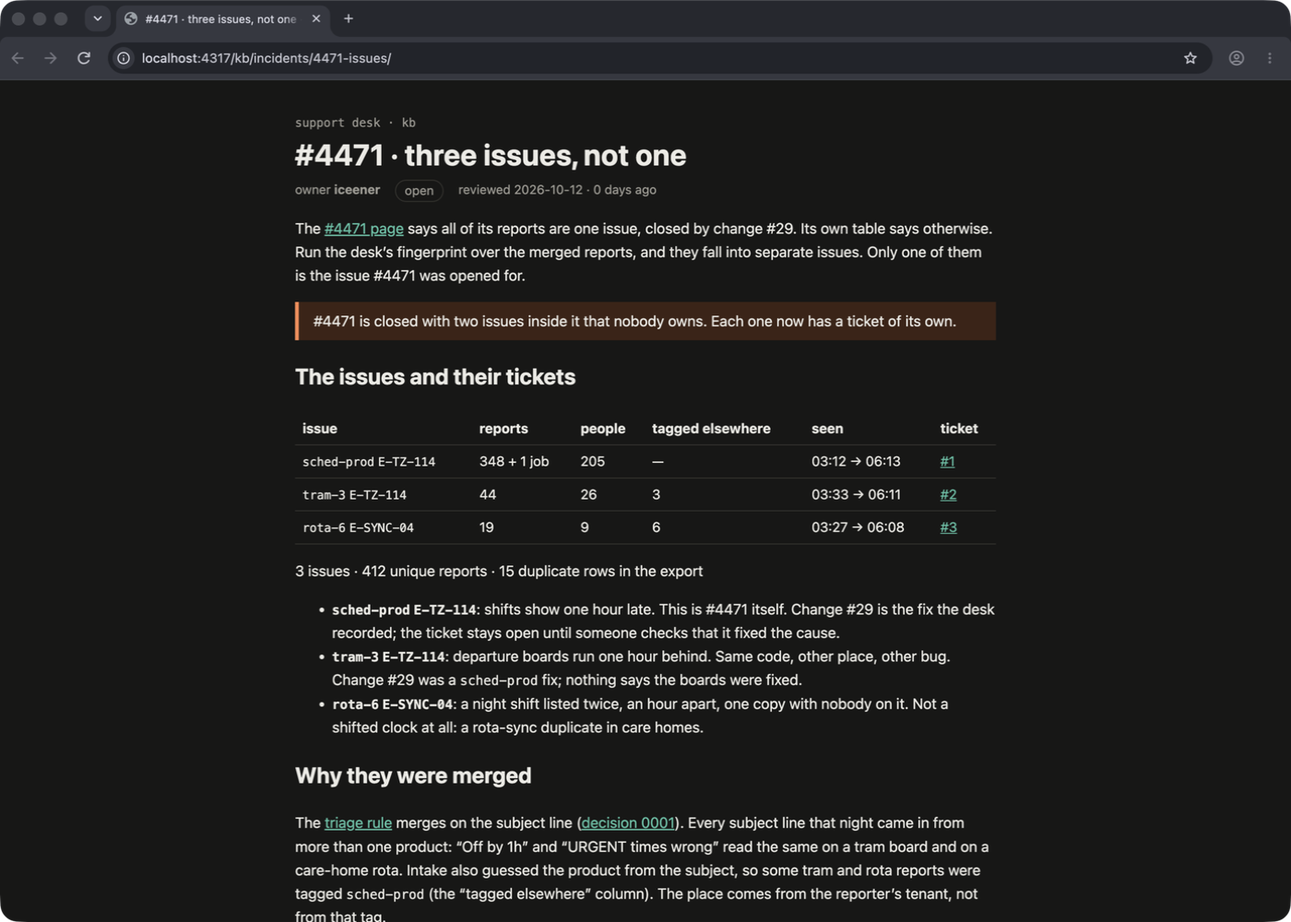
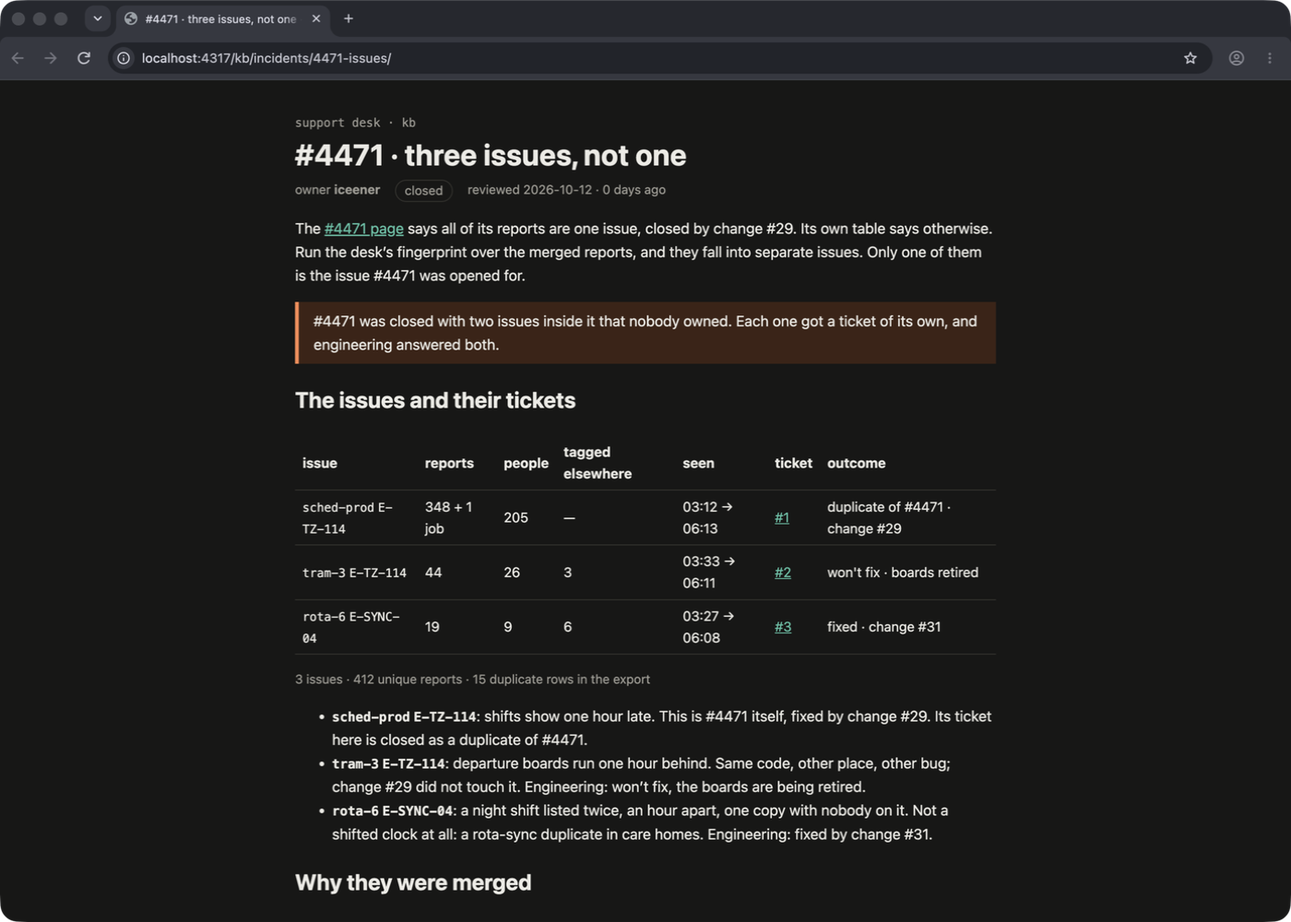
kb: #4471 issues page — outcomes after the engineering update (change #31, boards retired)

Changed region(s): [[0.215, 0.341, 0.7679, 1.0], [0.5836, 0.496, 0.7371, 0.589], [0.3071, 0.186, 0.5221, 0.217]]

diff --git a/build/kb/incidents/4471-issues/index.html b/build/kb/incidents/4471-issues/index.html
@@ -9,11 +9,11 @@
 		<link href="../../../_app/immutable/chunks/CjPXl71r.js" rel="modulepreload">
 		<link href="../../../_app/immutable/chunks/DrhdKudp.js" rel="modulepreload">
 		<link href="../../../_app/immutable/chunks/Q-h46zS3.js" rel="modulepreload">
-		<link href="../../../_app/immutable/entry/app.eoS55Amf.js" rel="modulepreload">
+		<link href="../../../_app/immutable/entry/app.CR07eQc3.js" rel="modulepreload">
 		<link href="../../../_app/immutable/nodes/0.B1DvwWkt.js" rel="modulepreload">
 		<link href="../../../_app/immutable/chunks/DK3Fl9T5.js" rel="modulepreload">
-		<link href="../../../_app/immutable/nodes/5.D0bmob_7.js" rel="modulepreload">
-		<link href="../../../_app/immutable/chunks/BV7Dv-AE.js" rel="modulepreload">
+		<link href="../../../_app/immutable/nodes/5.D6AqRqVD.js" rel="modulepreload">
+		<link href="../../../_app/immutable/chunks/CYy8uHnd.js" rel="modulepreload">
 		<link href="../../../_app/immutable/chunks/C8mc8nAB.js" rel="modulepreload">
 		<link href="../../../_app/immutable/chunks/CZxFnst4.js" rel="modulepreload">
 		<link href="../../../_app/immutable/chunks/C_ZGOYHz.js" rel="modulepreload">
@@ -24,12 +24,14 @@
 		<link href="../../../_app/immutable/assets/_page.D4fSH3G6.css" rel="stylesheet">
   </head>
   <body data-sveltekit-preload-data="hover">
-    <div style="display: contents"><!--[--><!--[--><!--[0--><!--[--><!--[--><!--[-1--><!--[--><div class="kb svelte-e2jw2j"><header><a class="crumb svelte-e2jw2j" href="/kb">support desk · kb</a> <h1 class="svelte-e2jw2j">#4471 · three issues, not one</h1> <p class="meta svelte-e2jw2j"><span>owner <b>iceener</b></span> <span class="status open svelte-e2jw2j">open</span> <span class="svelte-e2jw2j">reviewed 2026-10-12 · 0 days ago</span></p></header> <!--[-1--><!--]--> <main><p>The <a href="/kb/incidents/4471">#4471 page</a> says all of its reports are one issue, closed by change #29.
+    <div style="display: contents"><!--[--><!--[--><!--[0--><!--[--><!--[--><!--[-1--><!--[--><div class="kb svelte-e2jw2j"><header><a class="crumb svelte-e2jw2j" href="/kb">support desk · kb</a> <h1 class="svelte-e2jw2j">#4471 · three issues, not one</h1> <p class="meta svelte-e2jw2j"><span>owner <b>iceener</b></span> <span class="status closed svelte-e2jw2j">closed</span> <span class="svelte-e2jw2j">reviewed 2026-10-12 · 0 days ago</span></p></header> <!--[-1--><!--]--> <main><p>The <a href="/kb/incidents/4471">#4471 page</a> says all of its reports are one issue, closed by change #29.
 Its own table says otherwise. Run the desk’s fingerprint over the merged reports, and they fall
-into separate issues. Only one of them is the issue #4471 was opened for.</p> <aside class="warn svelte-17bri61"><!---->#4471 is closed with two issues inside it that nobody owns. Each one now has a ticket of its own.<!----></aside><!----> <h2>The issues and their tickets</h2> <table><thead><tr><th>issue</th><th>reports</th><th>people</th><th>tagged elsewhere</th><th>seen</th><th>ticket</th></tr></thead><tbody><!--[--><tr><td><code>sched-prod</code> <code>E-TZ-114</code></td><td>348 + 1 job</td><td>205</td><td>—</td><td>03:12 → 06:13</td><td><!--[0--><a href="https://github.com/iceener/kb-4471-a/issues/1">#1</a><!--]--></td></tr><tr><td><code>tram-3</code> <code>E-TZ-114</code></td><td>44</td><td>26</td><td>3</td><td>03:33 → 06:11</td><td><!--[0--><a href="https://github.com/iceener/kb-4471-a/issues/2">#2</a><!--]--></td></tr><tr><td><code>rota-6</code> <code>E-SYNC-04</code></td><td>19</td><td>9</td><td>6</td><td>03:27 → 06:08</td><td><!--[0--><a href="https://github.com/iceener/kb-4471-a/issues/3">#3</a><!--]--></td></tr><!--]--></tbody></table> <p class="sum svelte-17mk73y">3 issues · 412 unique reports · 15 duplicate rows in the export</p><!----> <ul><li><strong><code>sched-prod</code> <code>E-TZ-114</code></strong>: shifts show one hour late. This is #4471 itself. Change #29 is
-the fix the desk recorded; the ticket stays open until someone checks that it fixed the cause.</li> <li><strong><code>tram-3</code> <code>E-TZ-114</code></strong>: departure boards run one hour behind. Same code, other place, other
-bug. Change #29 was a <code>sched-prod</code> fix; nothing says the boards were fixed.</li> <li><strong><code>rota-6</code> <code>E-SYNC-04</code></strong>: a night shift listed twice, an hour apart, one copy with nobody on
-it. Not a shifted clock at all: a rota-sync duplicate in care homes.</li></ul> <h2>Why they were merged</h2> <p>The <a href="/kb/triage/dedupe">triage rule</a> merges on the subject line
+into separate issues. Only one of them is the issue #4471 was opened for.</p> <aside class="warn svelte-17bri61"><!---->#4471 was closed with two issues inside it that nobody owned. Each one got a ticket of its own,
+and engineering answered both.<!----></aside><!----> <h2>The issues and their tickets</h2> <table><thead><tr><th>issue</th><th>reports</th><th>people</th><th>tagged elsewhere</th><th>seen</th><th>ticket</th><th>outcome</th></tr></thead><tbody><!--[--><tr><td><code>sched-prod</code> <code>E-TZ-114</code></td><td>348 + 1 job</td><td>205</td><td>—</td><td>03:12 → 06:13</td><td><!--[0--><a href="https://github.com/iceener/kb-4471-a/issues/1">#1</a><!--]--></td><td>duplicate of #4471 · change #29</td></tr><tr><td><code>tram-3</code> <code>E-TZ-114</code></td><td>44</td><td>26</td><td>3</td><td>03:33 → 06:11</td><td><!--[0--><a href="https://github.com/iceener/kb-4471-a/issues/2">#2</a><!--]--></td><td>won't fix · boards retired</td></tr><tr><td><code>rota-6</code> <code>E-SYNC-04</code></td><td>19</td><td>9</td><td>6</td><td>03:27 → 06:08</td><td><!--[0--><a href="https://github.com/iceener/kb-4471-a/issues/3">#3</a><!--]--></td><td>fixed · change #31</td></tr><!--]--></tbody></table> <p class="sum svelte-17mk73y">3 issues · 412 unique reports · 15 duplicate rows in the export</p><!----> <ul><li><strong><code>sched-prod</code> <code>E-TZ-114</code></strong>: shifts show one hour late. This is #4471 itself, fixed by change
+#29. Its ticket here is closed as a duplicate of #4471.</li> <li><strong><code>tram-3</code> <code>E-TZ-114</code></strong>: departure boards run one hour behind. Same code, other place, other
+bug; change #29 did not touch it. Engineering: won’t fix, the boards are being retired.</li> <li><strong><code>rota-6</code> <code>E-SYNC-04</code></strong>: a night shift listed twice, an hour apart, one copy with nobody on
+it. Not a shifted clock at all: a rota-sync duplicate in care homes. Engineering: fixed by
+change #31.</li></ul> <h2>Why they were merged</h2> <p>The <a href="/kb/triage/dedupe">triage rule</a> merges on the subject line
 (<a href="/kb/decisions/0001-dedupe-by-subject">decision 0001</a>). Every subject line that night came in
 from more than one product: “Off by 1h” and “URGENT times wrong” read the same on a tram board
 and on a care-home rota. Intake also guessed the product from the subject, so some tram and
@@ -42,16 +44,16 @@ person; the table above does not.</p> <h2>As the desk filed it</h2> <p class="su
 			
 			<script>
 				{
-					__sveltekit_1057b2r = {
+					__sveltekit_57dtfc = {
 						base: new URL("../../..", location).pathname.slice(0, -1),
-						version: "1791802674645"
+						version: "1791802835124"
 					};
 
 					const element = document.currentScript.parentElement;
 
 					import("../../../_app/immutable/entry/start.B_C2gqdF.js").then(async (kit) => {
-						kit.init(__sveltekit_1057b2r);
-						const app = await import("../../../_app/immutable/entry/app.eoS55Amf.js");
+						kit.init(__sveltekit_57dtfc);
+						const app = await import("../../../_app/immutable/entry/app.CR07eQc3.js");
 						kit.start(app, element, {
 							node_ids: [0, 5],
 							data: [null,null],

diff --git a/build/_app/immutable/chunks/CYy8uHnd.js b/build/_app/immutable/chunks/CYy8uHnd.js
@@ -1,0 +1,17 @@
+import{t as e}from"./DK3Fl9T5.js";import{E as t,F as n,G as r,H as i,I as a,J as o,L as s,N as c,O as l,R as u,S as d,T as f,W as p,_ as m,c as h,h as g,k as _,q as v,r as y,t as b,w as x}from"./DrhdKudp.js";import{t as S}from"./C8mc8nAB.js";import{n as C,r as w,t as T}from"./CZxFnst4.js";import{i as E,n as D,s as O,t as k}from"./C_ZGOYHz.js";var A=t(`<a> </a>`),j=t(`<span class="none svelte-17mk73y">no ticket yet</span>`),M=t(`<tr><td><code> </code> <code> </code></td><td> </td><td> </td><td> </td><td> </td><td><!></td><td> </td></tr>`),N=t(`<table><thead><tr><th>issue</th><th>reports</th><th>people</th><th>tagged elsewhere</th><th>seen</th><th>ticket</th><th>outcome</th></tr></thead><tbody></tbody></table> <p class="sum svelte-17mk73y"> </p>`,1);function P(e,t){r(t,!0);let l=i(()=>O(w).filter(e=>e.mergedInto===t.ticket)),f=i(()=>D(_(l),C)),v=e=>e.filter(e=>e.reporter.includes(`@`)),y=(e,t)=>t.filter(t=>t.product!==e).length,b=e=>e.slice(11,16),S=e=>`#`+e.split(`/`).pop();var T=N(),k=a(T),P=u(n(k));g(P,21,()=>_(f),e=>e.fingerprint,(e,r)=>{let a=i(()=>v(_(r).reports));var l=M(),f=n(l),p=n(f),g=s(p,!0),C=u(p,2),w=s(C,!0);o(f);var T=u(f),D=s(T),O=u(T),k=s(O,!0),N=u(O),P=s(N,!0),F=u(N),I=s(F),L=u(F),R=n(L),z=e=>{var n=A(),i=s(n,!0);c(e=>{h(n,`href`,t.tickets[_(r).fingerprint].url),d(i,e)},[()=>S(t.tickets[_(r).fingerprint].url)]),x(e,n)},B=e=>{var t=j();x(e,t)};m(R,e=>{t.tickets[_(r).fingerprint]?e(z):e(B,-1)}),o(L);var V=u(L),H=s(V,!0);o(l),c((e,n,i,o)=>{d(g,_(r).place),d(w,_(r).code),d(D,`${_(a).length??``}${_(r).reports.length>_(a).length?` + ${_(r).reports.length-_(a).length} job`:``}`),d(k,e),d(P,n),d(I,`${i??``} → ${o??``}`),d(H,t.tickets[_(r).fingerprint]?.outcome??`—`)},[()=>new Set(_(a).map(e=>E(e.reporter))).size,()=>y(_(r).place,_(r).reports)||`—`,()=>b(_(r).firstSeen),()=>b(_(r).lastSeen)]),x(e,l)}),o(P),o(k);var F=u(k,2),I=s(F);c(()=>d(I,`${_(f).length??``} issues · ${_(l).length??``} unique reports · ${w.length-_(l).length} duplicate rows in the export`)),x(e,T),p()}var F=`0123456789ABCDEFGHJKMNPQRSTVWXYZ`;function I(e,t){let n=t>>>0;for(let t=0;t<e.length;t++)n^=e.charCodeAt(t),n=Math.imul(n,16777619)>>>0;return n}function L(e){let t=e.trim(),n=I(t,2166136261),r=I(t,2654435769),i=BigInt(n)<<8n|BigInt(r&255),a=``;for(let e=0;e<8;e++)a=F[Number(i&31n)]+a,i>>=5n;return`DR-${a.slice(0,4)}-${a.slice(4)}`}var R=t(`<p class="stamp svelte-1280m42">desk ref <b class="svelte-1280m42"> </b></p>`),z=t(`<p class="stamp missing svelte-1280m42">no desk ref: this page isn't signed (no <code>signature</code> in its frontmatter)</p>`);function B(e,t){r(t,!0);let l=i(()=>t.signature?L(t.signature):null);var h=f(),g=a(h),v=e=>{var t=R(),r=u(n(t)),i=s(r,!0);o(t),c(()=>d(i,_(l))),x(e,t)},y=e=>{var t=z();x(e,t)};m(g,e=>{_(l)?e(v):e(y,-1)}),x(e,h),p()}var V=e({default:()=>X,metadata:()=>H}),H={layout:`runbook`,title:`#4471 · three issues, not one`,owner:`iceener`,status:`closed`,reviewed:`2026-10-12T00:00:00.000Z`,signature:`v1.eyJzdWIiOiI2IiwiYXVkIjoiY2hhbGxlbmdlOndoYXQtaXQtc2hvd3MiLCJpYXQiOjE3OTE4MDIzMDQsImV4cCI6MTc5MTg4ODcwNH0.I6WsnalExcgND9KoG5IQD7m2CHWrUT4YDZEawr-ffuY`},{layout:U,title:W,owner:G,status:K,reviewed:q,signature:J}=H,Y=t(`<p>The <a href="/kb/incidents/4471">#4471 page</a> says all of its reports are one issue, closed by change #29.
+Its own table says otherwise. Run the desk’s fingerprint over the merged reports, and they fall
+into separate issues. Only one of them is the issue #4471 was opened for.</p> <!> <h2>The issues and their tickets</h2> <!> <ul><li><strong><code>sched-prod</code> <code>E-TZ-114</code></strong>: shifts show one hour late. This is #4471 itself, fixed by change
+#29. Its ticket here is closed as a duplicate of #4471.</li> <li><strong><code>tram-3</code> <code>E-TZ-114</code></strong>: departure boards run one hour behind. Same code, other place, other
+bug; change #29 did not touch it. Engineering: won’t fix, the boards are being retired.</li> <li><strong><code>rota-6</code> <code>E-SYNC-04</code></strong>: a night shift listed twice, an hour apart, one copy with nobody on
+it. Not a shifted clock at all: a rota-sync duplicate in care homes. Engineering: fixed by
+change #31.</li></ul> <h2>Why they were merged</h2> <p>The <a href="/kb/triage/dedupe">triage rule</a> merges on the subject line
+(<a href="/kb/decisions/0001-dedupe-by-subject">decision 0001</a>). Every subject line that night came in
+from more than one product: “Off by 1h” and “URGENT times wrong” read the same on a tram board
+and on a care-home rota. Intake also guessed the product from the subject, so some tram and
+rota reports were tagged <code>sched-prod</code> (the “tagged elsewhere” column). The place comes from the
+reporter’s tenant, not from that tag.</p> <p>The fingerprint in <code>#lib/kb/fingerprint</code> already keeps them apart: place plus server code.
+Decision 0001 is accepted, so it is not edited here. It needs a new record that replaces it.</p> <h2>The first row is not a report</h2> <p>The earliest entry merged into #4471, <code>R-41200</code>, has no reporter, no subject and no source. Its
+body is <code>status: clean (E-TZ-114)</code>. It is the job that ran at 03:12, not a customer, and it
+raised the server code before the first customer report came in. The desk’s table counts it as a
+person; the table above does not.</p> <h2>As the desk filed it</h2> <!> <!>`,1);function X(e,t){let n=b(t,[`children`,`$$slots`,`$$events`,`$$legacy`]),r={"sched-prod:E-TZ-114":{url:`https://github.com/iceener/kb-4471-a/issues/1`,outcome:`duplicate of #4471 · change #29`},"tram-3:E-TZ-114":{url:`https://github.com/iceener/kb-4471-a/issues/2`,outcome:`won't fix · boards retired`},"rota-6:E-SYNC-04":{url:`https://github.com/iceener/kb-4471-a/issues/3`,outcome:`fixed · change #31`}};S(e,y(()=>n,()=>H,{children:(e,t)=>{var n=Y(),i=u(a(n),2);k(i,{kind:`warn`,children:(e,t)=>{v();var n=l(`#4471 was closed with two issues inside it that nobody owned. Each one got a ticket of its own,
+and engineering answered both.`);x(e,n)},$$slots:{default:!0}});var o=u(i,4);P(o,{ticket:4471,get tickets(){return r}});var s=u(o,16);T(s,{ticket:4471}),B(u(s,2),{get signature(){return J}}),x(e,n)},$$slots:{default:!0}}))}export{X as n,V as t};

diff --git a/build/kb/index.html b/build/kb/index.html
@@ -9,16 +9,16 @@
 		<link href="../_app/immutable/chunks/CjPXl71r.js" rel="modulepreload">
 		<link href="../_app/immutable/chunks/DrhdKudp.js" rel="modulepreload">
 		<link href="../_app/immutable/chunks/Q-h46zS3.js" rel="modulepreload">
-		<link href="../_app/immutable/entry/app.eoS55Amf.js" rel="modulepreload">
+		<link href="../_app/immutable/entry/app.CR07eQc3.js" rel="modulepreload">
 		<link href="../_app/immutable/nodes/0.B1DvwWkt.js" rel="modulepreload">
 		<link href="../_app/immutable/chunks/DK3Fl9T5.js" rel="modulepreload">
-		<link href="../_app/immutable/nodes/2.CD45P8c2.js" rel="modulepreload">
+		<link href="../_app/immutable/nodes/2.B5uK7_o7.js" rel="modulepreload">
 		<link href="../_app/immutable/chunks/C8mc8nAB.js" rel="modulepreload">
 		<link href="../_app/immutable/chunks/CbZRR13j.js" rel="modulepreload">
 		<link href="../_app/immutable/chunks/IFb1WDfA.js" rel="modulepreload">
 		<link href="../_app/immutable/chunks/CZxFnst4.js" rel="modulepreload">
 		<link href="../_app/immutable/chunks/C_ZGOYHz.js" rel="modulepreload">
-		<link href="../_app/immutable/chunks/BV7Dv-AE.js" rel="modulepreload">
+		<link href="../_app/immutable/chunks/CYy8uHnd.js" rel="modulepreload">
 		<link href="../_app/immutable/chunks/C6BNqY-r.js" rel="modulepreload">
 		<!--e2jw2j--><!----><title>Support knowledge base · support kb</title>
 		<link href="../_app/immutable/assets/runbook.COyw0cbZ.css" rel="stylesheet">
@@ -30,21 +30,21 @@
 		<link href="../_app/immutable/assets/2.Bt0MwIZg.css" rel="stylesheet">
   </head>
   <body data-sveltekit-preload-data="hover">
-    <div style="display: contents"><!--[--><!--[--><!--[0--><!--[--><!--[--><!--[-1--><!--[--><div class="kb svelte-e2jw2j"><header><a class="crumb svelte-e2jw2j" href="/kb">support desk · kb</a> <h1 class="svelte-e2jw2j">Support knowledge base</h1> <p class="meta svelte-e2jw2j"><span>owner <b>support desk</b></span> <span class="status living svelte-e2jw2j">living</span> <span class="svelte-e2jw2j">reviewed 2026-09-28 · 14 days ago</span></p></header> <!--[-1--><!--]--> <main><p>What the support desk knows, kept next to the code that knows it. One desk, every product: <code>sched-prod</code>, <code>tram-3</code>, <code>rota-6</code> and the rest. When something breaks, the reports land here first.</p> <p>Start with <a href="/kb/triage/dedupe">triage</a> if you are new on the desk.</p> <h2>Pages</h2> <table><thead><tr><th>page</th><th>owner</th><th>status</th><th>reviewed</th></tr></thead><tbody><!--[--><tr><td><a href="/kb/decisions/0001-dedupe-by-subject">0001 · Duplicates share a subject line</a></td><td>rune</td><td>accepted</td><td class="svelte-tbc1ha stale">2024-06-11</td></tr><tr><td><a href="/kb/incidents/4471">#4471 · times moved by an hour overnight</a></td><td>tove</td><td>closed</td><td class="svelte-tbc1ha">2026-09-17</td></tr><tr><td><a href="/kb/incidents/4471-issues">#4471 · three issues, not one</a></td><td>iceener</td><td>open</td><td class="svelte-tbc1ha">2026-10-12</td></tr><tr><td><a href="/kb/triage/dedupe">Triage: duplicate reports</a></td><td>tove</td><td>accepted</td><td class="svelte-tbc1ha stale">2024-06-11</td></tr><!--]--></tbody></table><!----> <h2>Writing a page</h2> <p>Keep the words here and the logic in <code>src/lib</code>. A number that can be computed should be
+    <div style="display: contents"><!--[--><!--[--><!--[0--><!--[--><!--[--><!--[-1--><!--[--><div class="kb svelte-e2jw2j"><header><a class="crumb svelte-e2jw2j" href="/kb">support desk · kb</a> <h1 class="svelte-e2jw2j">Support knowledge base</h1> <p class="meta svelte-e2jw2j"><span>owner <b>support desk</b></span> <span class="status living svelte-e2jw2j">living</span> <span class="svelte-e2jw2j">reviewed 2026-09-28 · 14 days ago</span></p></header> <!--[-1--><!--]--> <main><p>What the support desk knows, kept next to the code that knows it. One desk, every product: <code>sched-prod</code>, <code>tram-3</code>, <code>rota-6</code> and the rest. When something breaks, the reports land here first.</p> <p>Start with <a href="/kb/triage/dedupe">triage</a> if you are new on the desk.</p> <h2>Pages</h2> <table><thead><tr><th>page</th><th>owner</th><th>status</th><th>reviewed</th></tr></thead><tbody><!--[--><tr><td><a href="/kb/decisions/0001-dedupe-by-subject">0001 · Duplicates share a subject line</a></td><td>rune</td><td>accepted</td><td class="svelte-tbc1ha stale">2024-06-11</td></tr><tr><td><a href="/kb/incidents/4471">#4471 · times moved by an hour overnight</a></td><td>tove</td><td>closed</td><td class="svelte-tbc1ha">2026-09-17</td></tr><tr><td><a href="/kb/incidents/4471-issues">#4471 · three issues, not one</a></td><td>iceener</td><td>closed</td><td class="svelte-tbc1ha">2026-10-12</td></tr><tr><td><a href="/kb/triage/dedupe">Triage: duplicate reports</a></td><td>tove</td><td>accepted</td><td class="svelte-tbc1ha stale">2024-06-11</td></tr><!--]--></tbody></table><!----> <h2>Writing a page</h2> <p>Keep the words here and the logic in <code>src/lib</code>. A number that can be computed should be
 computed by a component, not typed into a paragraph.</p><!----></main> <footer class="svelte-e2jw2j">Pages are written by people. Tables and charts are built from data at render time.</footer></div><!--]--><!--]--><!--]--><!----><!--]--><!--]--><!--]--><!----> <!--[-1--><!--]--><!--]-->
 			
 			<script>
 				{
-					__sveltekit_1057b2r = {
+					__sveltekit_57dtfc = {
 						base: new URL("..", location).pathname.slice(0, -1),
-						version: "1791802674645"
+						version: "1791802835124"
 					};
 
 					const element = document.currentScript.parentElement;
 
 					import("../_app/immutable/entry/start.B_C2gqdF.js").then(async (kit) => {
-						kit.init(__sveltekit_1057b2r);
-						const app = await import("../_app/immutable/entry/app.eoS55Amf.js");
+						kit.init(__sveltekit_57dtfc);
+						const app = await import("../_app/immutable/entry/app.CR07eQc3.js");
 						kit.start(app, element, {
 							node_ids: [0, 2],
 							data: [null,null],

diff --git a/build/_app/immutable/nodes/2.B5uK7_o7.js b/build/_app/immutable/nodes/2.B5uK7_o7.js
@@ -1,0 +1,2 @@
+import{E as e,F as t,G as n,I as r,J as i,L as a,N as o,R as s,S as c,W as l,c as u,d,h as f,i as p,k as m,q as h,r as g,t as _,w as v}from"../chunks/DrhdKudp.js";import{n as y,r as b,t as x}from"../chunks/C8mc8nAB.js";import{t as S}from"../chunks/CbZRR13j.js";import{t as C}from"../chunks/IFb1WDfA.js";import{t as w}from"../chunks/CYy8uHnd.js";import{t as T}from"../chunks/C6BNqY-r.js";var E=e(`<tr><td><a> </a></td><td> </td><td> </td><td> </td></tr>`),D=e(`<table><thead><tr><th>page</th><th>owner</th><th>status</th><th>reviewed</th></tr></thead><tbody></tbody></table>`);function O(e,r){n(r,!1);let h=Object.entries(Object.assign({"/src/routes/kb/decisions/0001-dedupe-by-subject/+page.svx":S,"/src/routes/kb/incidents/4471/+page.svx":C,"/src/routes/kb/incidents/4471-issues/+page.svx":w,"/src/routes/kb/triage/dedupe/+page.svx":T})).map(([e,t])=>({href:e.replace(`/src/routes`,``).replace(`/+page.svx`,``),...t.metadata})).sort((e,t)=>e.href.localeCompare(t.href));p();var g=D(),_=s(t(g));f(_,5,()=>h,e=>e.href,(e,n)=>{var r=E(),l=t(r),f=t(l),p=a(f,!0);i(l);var h=s(l),g=a(h,!0),_=s(h),x=a(_,!0),S=s(_);let C;var w=a(S,!0);i(r),o((e,t)=>{u(f,`href`,m(n).href),c(p,m(n).title),c(g,m(n).owner),c(x,m(n).status),C=d(S,1,`svelte-tbc1ha`,null,C,{stale:e}),c(w,t)},[()=>y(m(n).reviewed)>180,()=>b(m(n).reviewed)]),v(e,r)}),i(_),i(g),v(e,g),l()}var k={layout:`runbook`,title:`Support knowledge base`,owner:`support desk`,status:`living`,reviewed:`2026-09-28T00:00:00.000Z`},{layout:A,title:j,owner:M,status:N,reviewed:P}=k,F=e(`<p>What the support desk knows, kept next to the code that knows it. One desk, every product: <code>sched-prod</code>, <code>tram-3</code>, <code>rota-6</code> and the rest. When something breaks, the reports land here first.</p> <p>Start with <a href="/kb/triage/dedupe">triage</a> if you are new on the desk.</p> <h2>Pages</h2> <!> <h2>Writing a page</h2> <p>Keep the words here and the logic in <code>src/lib</code>. A number that can be computed should be
+computed by a component, not typed into a paragraph.</p>`,1);function I(e,t){let n=_(t,[`children`,`$$slots`,`$$events`,`$$legacy`]);x(e,g(()=>n,()=>k,{children:(e,t)=>{var n=F();O(s(r(n),6),{}),h(4),v(e,n)},$$slots:{default:!0}}))}export{I as component};

diff --git a/build/_app/immutable/entry/app.CR07eQc3.js b/build/_app/immutable/entry/app.CR07eQc3.js
@@ -1,0 +1,2 @@
+const __vite__mapDeps=(i,m=__vite__mapDeps,d=(m.f||(m.f=["../nodes/0.B1DvwWkt.js","../chunks/DK3Fl9T5.js","../chunks/DrhdKudp.js","../nodes/1.D6Q8vMyS.js","../chunks/Q-h46zS3.js","./payload.DSmR2FwN.js","../nodes/2.B5uK7_o7.js","../chunks/C8mc8nAB.js","../assets/runbook.COyw0cbZ.css","../chunks/CbZRR13j.js","../chunks/IFb1WDfA.js","../chunks/CZxFnst4.js","../chunks/C_ZGOYHz.js","../assets/Callout.AbLv9dM_.css","../assets/ClusterTable.Fqq1V8iH.css","../assets/_page.BwRNheVv.css","../chunks/CYy8uHnd.js","../assets/_page.D4fSH3G6.css","../chunks/C6BNqY-r.js","../assets/_page.DO6Yid7X.css","../assets/2.Bt0MwIZg.css","../nodes/3.C74tAXX3.js","../nodes/4.ivkrACDf.js","../nodes/5.D6AqRqVD.js","../nodes/6.RpdyIE5W.js"])))=>i.map(i=>d[i]);
+import{t as e}from"../chunks/CRzLMJPS.js";var t={},n=[()=>e(()=>import(`../nodes/0.B1DvwWkt.js`),__vite__mapDeps([0,1,2]),import.meta.url),()=>e(()=>import(`../nodes/1.D6Q8vMyS.js`),__vite__mapDeps([3,2,4,5]),import.meta.url),()=>e(()=>import(`../nodes/2.B5uK7_o7.js`),__vite__mapDeps([6,2,7,8,9,1,10,11,12,13,14,15,16,17,18,19,20]),import.meta.url),()=>e(()=>import(`../nodes/3.C74tAXX3.js`),__vite__mapDeps([21,9,1,2,7,8]),import.meta.url),()=>e(()=>import(`../nodes/4.ivkrACDf.js`),__vite__mapDeps([22,10,1,2,7,8,11,12,13,14,15]),import.meta.url),()=>e(()=>import(`../nodes/5.D6AqRqVD.js`),__vite__mapDeps([23,16,1,2,7,8,11,12,13,14,17]),import.meta.url),()=>e(()=>import(`../nodes/6.RpdyIE5W.js`),__vite__mapDeps([24,18,1,2,7,8,12,13,19]),import.meta.url)],r=[],i={"/kb":[2],"/kb/decisions/0001-dedupe-by-subject":[3],"/kb/incidents/4471-issues":[5],"/kb/incidents/4471":[4],"/kb/triage/dedupe":[6]},a={handleError:(({kind:e,error:t})=>{e===`unknown`&&console.error(t)}),reroute:(()=>{}),transport:{}},o=Object.fromEntries(Object.entries(a.transport).map(([e,t])=>[e,t.decode])),s=Object.fromEntries(Object.entries(a.transport).map(([e,t])=>[e,t.encode])),c=!1,l=(e,t)=>o[e](t),u=()=>e(()=>import(`../chunks/Bjy-W4x2.js`).then(e=>e.default),[],import.meta.url);export{l as decode,o as decoders,i as dictionary,s as encoders,u as get_error_template,c as hash,a as hooks,t as matchers,n as nodes,r as server_loads};

diff --git a/src/lib/kb/SplitTickets.svelte b/src/lib/kb/SplitTickets.svelte
@@ -3,8 +3,9 @@
   import { clusterReports, reporterKey, uniqueById, type Report } from '#lib/kb/fingerprint';
   import { placeOf } from '#lib/kb/places';
 
-  // One row per issue found in a merged ticket, with the ticket it now has: fingerprint → link.
-  let { ticket, tickets }: { ticket: number; tickets: Record<string, string> } = $props();
+  // One row per issue found in a merged ticket, with the ticket it now has and how that closed.
+  type Filed = { url: string; outcome: string };
+  let { ticket, tickets }: { ticket: number; tickets: Record<string, Filed> } = $props();
 
   const merged = $derived(uniqueById(reports as Report[]).filter((r) => r.mergedInto === ticket));
   const clusters = $derived(clusterReports(merged, placeOf));
@@ -17,7 +18,7 @@
 
 <table>
   <thead>
-    <tr><th>issue</th><th>reports</th><th>people</th><th>tagged elsewhere</th><th>seen</th><th>ticket</th></tr>
+    <tr><th>issue</th><th>reports</th><th>people</th><th>tagged elsewhere</th><th>seen</th><th>ticket</th><th>outcome</th></tr>
   </thead>
   <tbody>
     {#each clusters as c (c.fingerprint)}
@@ -29,9 +30,10 @@
         <td>{mistagged(c.place, c.reports) || '—'}</td>
         <td>{time(c.firstSeen)} → {time(c.lastSeen)}</td>
         <td>
-          {#if tickets[c.fingerprint]}<a href={tickets[c.fingerprint]}>{label(tickets[c.fingerprint])}</a>
+          {#if tickets[c.fingerprint]}<a href={tickets[c.fingerprint].url}>{label(tickets[c.fingerprint].url)}</a>
           {:else}<span class="none">no ticket yet</span>{/if}
         </td>
+        <td>{tickets[c.fingerprint]?.outcome ?? '—'}</td>
       </tr>
     {/each}
   </tbody>

diff --git a/build/kb/decisions/0001-dedupe-by-subject/index.html b/build/kb/decisions/0001-dedupe-by-subject/index.html
@@ -9,7 +9,7 @@
 		<link href="../../../_app/immutable/chunks/CjPXl71r.js" rel="modulepreload">
 		<link href="../../../_app/immutable/chunks/DrhdKudp.js" rel="modulepreload">
 		<link href="../../../_app/immutable/chunks/Q-h46zS3.js" rel="modulepreload">
-		<link href="../../../_app/immutable/entry/app.eoS55Amf.js" rel="modulepreload">
+		<link href="../../../_app/immutable/entry/app.CR07eQc3.js" rel="modulepreload">
 		<link href="../../../_app/immutable/nodes/0.B1DvwWkt.js" rel="modulepreload">
 		<link href="../../../_app/immutable/chunks/DK3Fl9T5.js" rel="modulepreload">
 		<link href="../../../_app/immutable/nodes/3.C74tAXX3.js" rel="modulepreload">
@@ -26,16 +26,16 @@ engineering merges them later.</li></ul><!----></main> <footer class="svelte-e2j
 			
 			<script>
 				{
-					__sveltekit_1057b2r = {
+					__sveltekit_57dtfc = {
 						base: new URL("../../..", location).pathname.slice(0, -1),
-						version: "1791802674645"
+						version: "1791802835124"
 					};
 
 					const element = document.currentScript.parentElement;
 
 					import("../../../_app/immutable/entry/start.B_C2gqdF.js").then(async (kit) => {
-						kit.init(__sveltekit_1057b2r);
-						const app = await import("../../../_app/immutable/entry/app.eoS55Amf.js");
+						kit.init(__sveltekit_57dtfc);
+						const app = await import("../../../_app/immutable/entry/app.CR07eQc3.js");
 						kit.start(app, element, {
 							node_ids: [0, 3],
 							data: [null,null],

diff --git a/build/kb/incidents/4471/index.html b/build/kb/incidents/4471/index.html
@@ -9,7 +9,7 @@
 		<link href="../../../_app/immutable/chunks/CjPXl71r.js" rel="modulepreload">
 		<link href="../../../_app/immutable/chunks/DrhdKudp.js" rel="modulepreload">
 		<link href="../../../_app/immutable/chunks/Q-h46zS3.js" rel="modulepreload">
-		<link href="../../../_app/immutable/entry/app.eoS55Amf.js" rel="modulepreload">
+		<link href="../../../_app/immutable/entry/app.CR07eQc3.js" rel="modulepreload">
 		<link href="../../../_app/immutable/nodes/0.B1DvwWkt.js" rel="modulepreload">
 		<link href="../../../_app/immutable/chunks/DK3Fl9T5.js" rel="modulepreload">
 		<link href="../../../_app/immutable/nodes/4.ivkrACDf.js" rel="modulepreload">
@@ -30,16 +30,16 @@ at 06:15, and the queue stopped growing.</p> <aside class="note svelte-17bri61">
 			
 			<script>
 				{
-					__sveltekit_1057b2r = {
+					__sveltekit_57dtfc = {
 						base: new URL("../../..", location).pathname.slice(0, -1),
-						version: "1791802674645"
+						version: "1791802835124"
 					};
 
 					const element = document.currentScript.parentElement;
 
 					import("../../../_app/immutable/entry/start.B_C2gqdF.js").then(async (kit) => {
-						kit.init(__sveltekit_1057b2r);
-						const app = await import("../../../_app/immutable/entry/app.eoS55Amf.js");
+						kit.init(__sveltekit_57dtfc);
+						const app = await import("../../../_app/immutable/entry/app.CR07eQc3.js");
 						kit.start(app, element, {
 							node_ids: [0, 4],
 							data: [null,null],

diff --git a/build/kb/triage/dedupe/index.html b/build/kb/triage/dedupe/index.html
@@ -9,7 +9,7 @@
 		<link href="../../../_app/immutable/chunks/CjPXl71r.js" rel="modulepreload">
 		<link href="../../../_app/immutable/chunks/DrhdKudp.js" rel="modulepreload">
 		<link href="../../../_app/immutable/chunks/Q-h46zS3.js" rel="modulepreload">
-		<link href="../../../_app/immutable/entry/app.eoS55Amf.js" rel="modulepreload">
+		<link href="../../../_app/immutable/entry/app.CR07eQc3.js" rel="modulepreload">
 		<link href="../../../_app/immutable/nodes/0.B1DvwWkt.js" rel="modulepreload">
 		<link href="../../../_app/immutable/chunks/DK3Fl9T5.js" rel="modulepreload">
 		<link href="../../../_app/immutable/nodes/6.RpdyIE5W.js" rel="modulepreload">
@@ -29,16 +29,16 @@ anything else.<!----></aside><!----> <h2>Try it</h2> <div class="try svelte-gq0h
 			
 			<script>
 				{
-					__sveltekit_1057b2r = {
+					__sveltekit_57dtfc = {
 						base: new URL("../../..", location).pathname.slice(0, -1),
-						version: "1791802674645"
+						version: "1791802835124"
 					};
 
 					const element = document.currentScript.parentElement;
 
 					import("../../../_app/immutable/entry/start.B_C2gqdF.js").then(async (kit) => {
-						kit.init(__sveltekit_1057b2r);
-						const app = await import("../../../_app/immutable/entry/app.eoS55Amf.js");
+						kit.init(__sveltekit_57dtfc);
+						const app = await import("../../../_app/immutable/entry/app.CR07eQc3.js");
 						kit.start(app, element, {
 							node_ids: [0, 6],
 							data: [null,null],

diff --git a/build/_app/immutable/nodes/5.D6AqRqVD.js b/build/_app/immutable/nodes/5.D6AqRqVD.js
@@ -1,0 +1,1 @@
+export{n as component}from"../chunks/CYy8uHnd.js";
